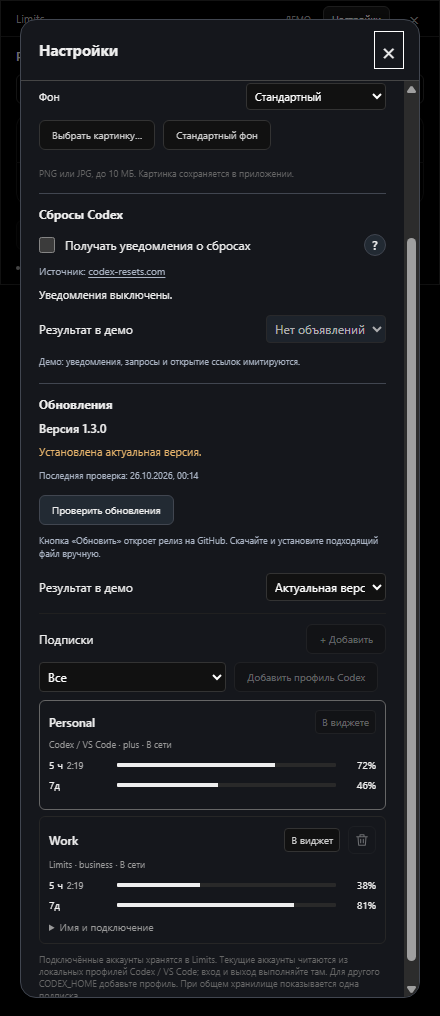
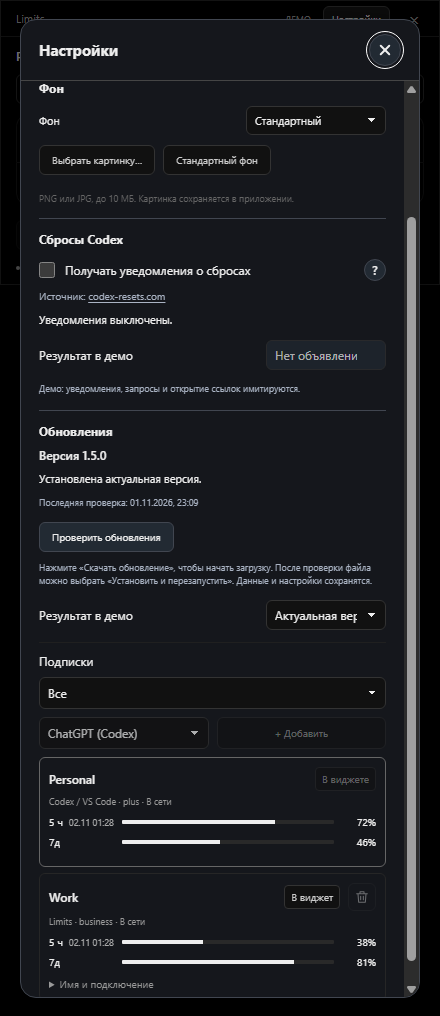
Remove manual Codex profile folder tracking

diff --git a/src/common/renderer/subscriptions.js b/src/common/renderer/subscriptions.js
@@ -2,17 +2,14 @@
 (() => {
   const words = {
     ru: { title: 'Подписки', all: 'Все', connected: 'Подключены в Limits', active: 'В Codex / VS Code',
-      addSource: 'Добавить профиль Codex', sourceHint: 'Выберите папку CODEX_HOME другого локального профиля Codex или VS Code.',
-      empty: 'В этом режиме пока нет подписок.', forget: 'Убрать из отслеживания', connect: 'Подключить аккаунт в Limits' },
+      empty: 'В этом режиме пока нет подписок.', connect: 'Подключить аккаунт в Limits' },
     en: { title: 'Subscriptions', all: 'All', connected: 'Connected in Limits', active: 'In Codex / VS Code',
-      addSource: 'Add Codex profile', sourceHint: 'Choose the CODEX_HOME folder for another local Codex or VS Code profile.',
-      empty: 'No subscriptions in this view yet.', forget: 'Stop tracking', connect: 'Connect an account in Limits' },
+      empty: 'No subscriptions in this view yet.', connect: 'Connect an account in Limits' },
   };
-  let controls, current;
+  let controls;
   const make = (tag, parent, className = '') => { const node = document.createElement(tag); node.className = className; parent.append(node); return node; };
   function render(next) {
     if (!next.subscriptions) return;
-    current = next;
     const t = words[next.language] || words.en;
     const section = document.querySelector('.accounts-section');
     if (!controls) {
@@ -22,24 +19,12 @@
       for (const value of ['all', 'connected', 'active']) { const option = make('option', mode); option.value = value; }
       mode.onchange = async () => { await window.limits.subscriptionMode(mode.value); render(await window.limits.get()); };
       controls.append(document.getElementById('account-provider'), document.getElementById('add-account'));
-      const source = make('button', controls, 'refresh-button'); source.id = next.platform === 'darwin' ? 'apple-subscription-add-source' : 'subscription-add-source'; source.type = 'button';
-      source.onclick = async () => {
-        source.disabled = true;
-        const result = await window.limits.addSubscriptionSource();
-        error.textContent = result.error ? (current.language === 'ru' ? 'Не удалось добавить профиль.' : 'Could not add the profile.') : '';
-        error.hidden = !result.error;
-        render(await window.limits.get());
-      };
-      const error = make('p', controls, 'footnote warning'); error.setAttribute('role', 'status'); error.hidden = true;
       const empty = make('p', section, 'footnote'); empty.id = next.platform === 'darwin' ? 'apple-subscription-empty' : 'subscription-empty';
     }
     section.querySelector('.accounts-heading > span').textContent = t.title;
     const mode = controls.querySelector('select'); mode.value = next.subscriptions.mode;
     mode.setAttribute('aria-label', t.title);
     for (const option of mode.options) option.textContent = t[option.value];
-    const source = controls.querySelector('[id$="subscription-add-source"]');
-    source.textContent = t.addSource; source.title = t.sourceHint; source.disabled = next.demo;
-    source.hidden = mode.value === 'connected';
     let visible = 0;
     for (const profile of next.profiles) {
       const card = [...document.querySelectorAll('.profile-card')].find(node => node.dataset.profileId === profile.id);
@@ -52,11 +37,6 @@
       // The shared renderer refreshes this text on every account state event.
       const prefix = `${profile.sourceLabel} · `;
       if (!status.textContent.startsWith(prefix)) status.textContent = prefix + status.textContent;
-      if (profile.readOnly && profile.id !== 'default') {
-        const remove = card.querySelector('.profile-remove');
-        const label = `${t.forget}: ${profile.displayName || profile.sourceLabel}`;
-        remove.title = label; remove.setAttribute('aria-label', label);
-      }
     }
     const empty = section.querySelector('[id$="subscription-empty"]'); empty.textContent = t.empty; empty.hidden = visible > 0;
     if (next.readOnly) document.getElementById('login').textContent = t.connect;

diff --git a/src/common/renderer/key-connection.css b/src/common/renderer/key-connection.css
@@ -9,4 +9,3 @@
 .key-connection-actions { display: flex; justify-content: flex-end; gap: 8px; margin-top: 18px; }
 .key-connection .notice { margin: 12px 0 0; }
 .subscription-controls #account-provider { grid-column: auto; }
-.subscription-controls [id$="subscription-add-source"] { grid-column: 1 / -1; }

diff --git a/docs/macos-accounts.md b/docs/macos-accounts.md
@@ -4,10 +4,10 @@ Settings → Subscriptions has **All**, **Connected in Limits** and **In Codex /
 
 Connected subscriptions retain the existing isolated `accounts/<id>` homes and file credential store. Existing profile IDs and local names are preserved. On macOS, connecting while the external source is selected creates a new isolated profile; it never switches the account in another application.
 
-The default external source uses inherited `CODEX_HOME`, otherwise `~/.codex`. Codex CLI and the IDE extension normally share this login cache ([official authentication documentation](https://learn.chatgpt.com/docs/auth)). Use **Add Codex profile** to select another local home when clients have separate stores. Each home remains visible independently, including when two subscriptions share an email address. A repeated reference to the same directory does not add a duplicate. For shared storage one source represents the shared sign-in, not a separate subscription per app window.
+The default external source uses inherited `CODEX_HOME`, otherwise `~/.codex`. Codex CLI and the IDE extension normally share this login cache ([official authentication documentation](https://learn.chatgpt.com/docs/auth)). Add subscriptions using the provider selector and **+ Add**. Additional local homes, including previously saved folder references, are not tracked; their folders and sign-ins remain untouched. For shared storage one source represents the shared sign-in, not a separate subscription per app window.
 
-Limits obtains the selected account and quotas through its bundled app-server, not by parsing tokens. Each external poll starts a fresh server to pick up changes to the managed file/keychain store and reads the account with `refreshToken: false` ([account protocol](https://learn.chatgpt.com/docs/app-server)). It does not force a refresh-token rotation on each poll. Codex may still refresh credentials itself when needed for a request. Browser login/logout is disabled for external sources. Forgetting a source stops the monitor and removes its directory reference without calling logout or deleting that directory.
+Limits obtains the selected account and quotas through its bundled app-server, not by parsing tokens. Each external poll starts a fresh server to pick up changes to the managed file/keychain store and reads the account with `refreshToken: false` ([account protocol](https://learn.chatgpt.com/docs/app-server)). It does not force a refresh-token rotation on each poll. Codex may still refresh credentials itself when needed for a request. Browser login/logout is disabled for external sources.
 
 “Current” means the locally saved sign-in in the selected home. It is not billing/expiry information and cannot identify the account of every individual running thread. A remote VS Code host or a session held only in another process's memory has no discoverable local login store. Sign-in revocation may require signing in again in the owning client. No Codex window needs to remain open for Limits' own monitoring.
 
-Manual check: connect one account in Limits and another in local Codex; verify both, select each, switch the Codex sign-in and wait for the next poll, restart Limits, and verify selection/filter restoration. With separate local homes, add both and forget one; the owning client's login must remain intact. Never use real credentials in test fixtures or screenshots.
+Manual check: connect one account in Limits and another in local Codex; verify both, select each, switch the Codex sign-in and wait for the next poll, restart Limits, and verify selection/filter restoration. Verify that the provider selector adds isolated subscriptions while only the default external home is tracked. Never use real credentials in test fixtures or screenshots.

diff --git a/README.md b/README.md
@@ -156,9 +156,9 @@ For Codex, Limits starts a local **Codex App Server** process and reads account 
 
 **DeepSeek:** open Settings → Subscriptions, select DeepSeek, and choose **+ Add**. Limits opens the API-key page in your browser. Sign in, create a key, return to Limits and paste it into **Connect DeepSeek**. The profile is added after a successful balance check; cancellation leaves no empty profile. Keys are encrypted on this device using the OS credential storage through Electron; connecting fails if secure storage is unavailable. Use **Name and connection → Replace API key** to change a key, or disconnect the profile to delete its saved key locally. This does not revoke the key in DeepSeek. Balances refresh about one minute after each completed request, independently from Codex. Different currencies are kept separate. Account-wide token or spending history is not included.
 
-**macOS:** Settings → Subscriptions distinguishes **Connected in Limits** from **In Codex / VS Code**; **All** shows both. The current local Codex account is tracked from `CODEX_HOME` (normally `~/.codex`) and is reloaded on each poll. Sign in or out of that profile in Codex / VS Code. Connecting from Limits creates an isolated account and does not switch the external profile. Use **Add Codex profile** to select another local `CODEX_HOME` if your clients use different stores. Forgetting it stops tracking without logging it out. These are locally saved sign-ins, not proof of which account an individual running chat uses; remote VS Code and memory-only sessions are not discovered. Details: [macOS subscriptions](docs/macos-accounts.md).
+**macOS:** Settings → Subscriptions distinguishes **Connected in Limits** from **In Codex / VS Code**; **All** shows both. The current local Codex account is tracked from `CODEX_HOME` (normally `~/.codex`) and is reloaded on each poll. Sign in or out of that profile in Codex / VS Code. Connecting from Limits creates an isolated account and does not switch the external profile. Add subscriptions using the provider selector and **+ Add**. Extra local `CODEX_HOME` folders are not tracked. These are locally saved sign-ins, not proof of which account an individual running chat uses; remote VS Code and memory-only sessions are not discovered. Details: [macOS subscriptions](docs/macos-accounts.md).
 
-On Windows and Linux, choose All, Connected in Limits, or In Codex / VS Code to view subscriptions. The default local Codex home is tracked automatically; add another CODEX_HOME folder to track a separate local profile. External profiles reload sign-in changes on polling; sign in or out in Codex / VS Code. Removing a source only stops tracking it. Accounts added in Limits use separate storage managed by Codex. The app does not read OAuth tokens into its UI.
+On Windows and Linux, choose All, Connected in Limits, or In Codex / VS Code to view subscriptions. The default local Codex home is tracked automatically and reloads sign-in changes on polling; sign in or out in Codex / VS Code. Extra CODEX_HOME folders are not tracked. Add subscriptions using the provider selector and **+ Add**. Codex accounts added in Limits use separate storage managed by Codex. The app does not read OAuth tokens into its UI.
 
 Limits has no app-level analytics or telemetry integration in its source. Codex connects to OpenAI services for sign-in and usage data; its behavior is managed by Codex. See [data storage and privacy](docs/privacy.md).
 

diff --git a/CHANGELOG.md b/CHANGELOG.md
@@ -4,6 +4,10 @@ Only user-visible features and bug fixes are recorded here. Downloadable package
 
 ## 1.7.0
 
+### Changed
+
+- Remove the separate Add Codex profile button and manual CODEX_HOME folder tracking on all platforms. Previously added folder references are no longer loaded; their folders and sign-ins remain untouched. Add subscriptions through the provider selector; automatic tracking of the current Codex / VS Code account remains available.
+
 ### Added
 
 - Add DeepSeek to the subscription provider selector. Open its API-key page in the browser, validate a pasted key before adding a profile, and store it encrypted with the OS. Monitor total, granted and topped-up balances in their original currencies once per minute with an independent polling setting; support key replacement and local removal without model requests.
